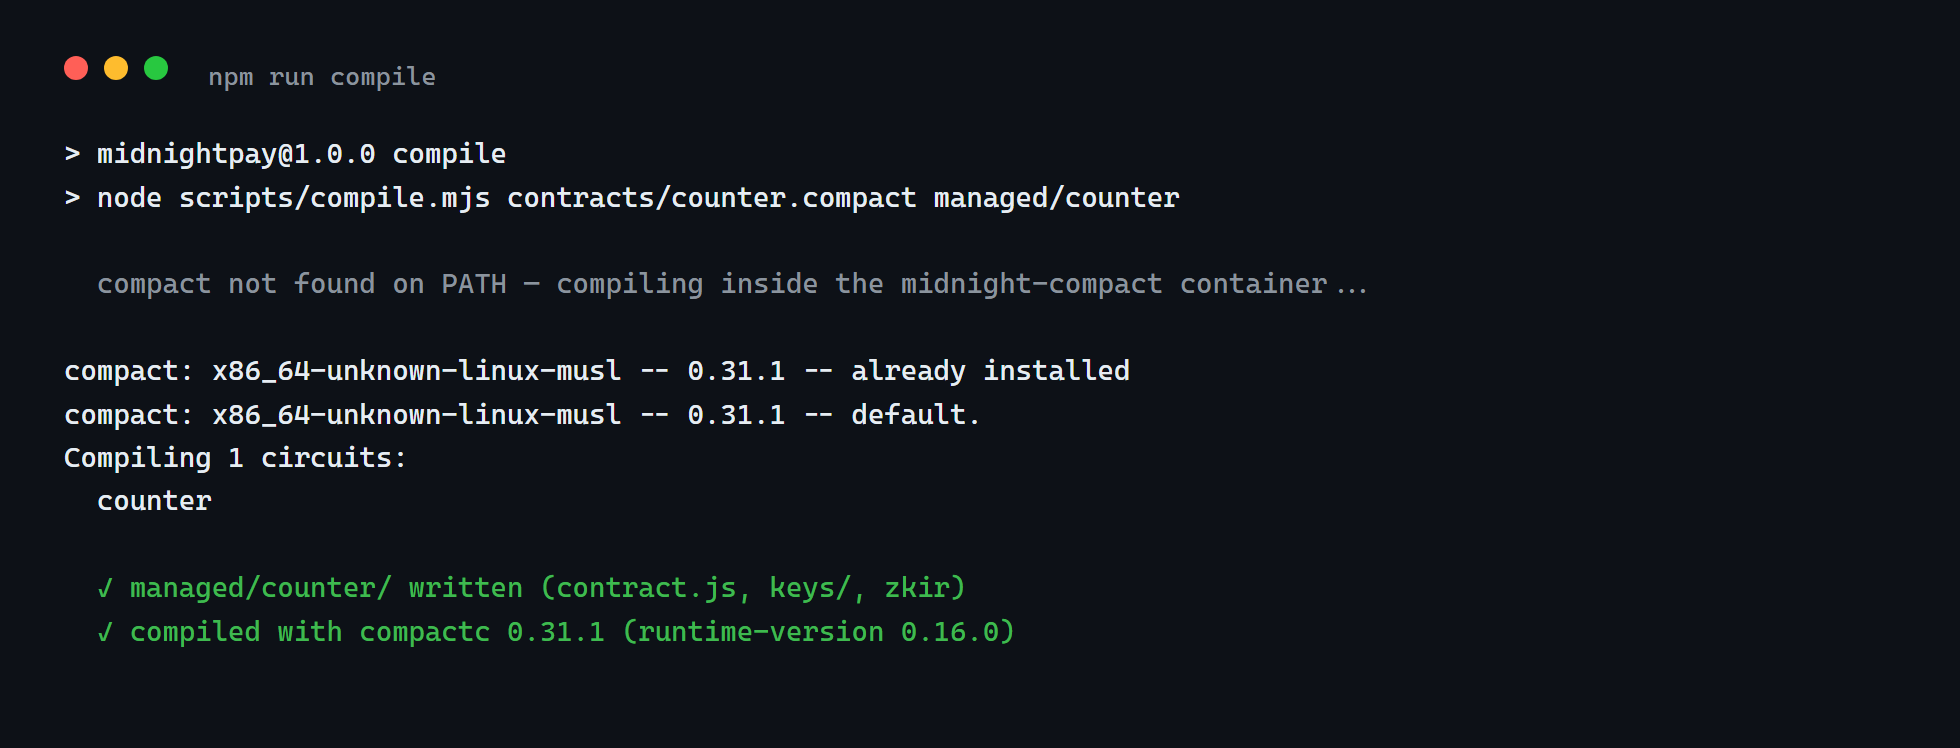
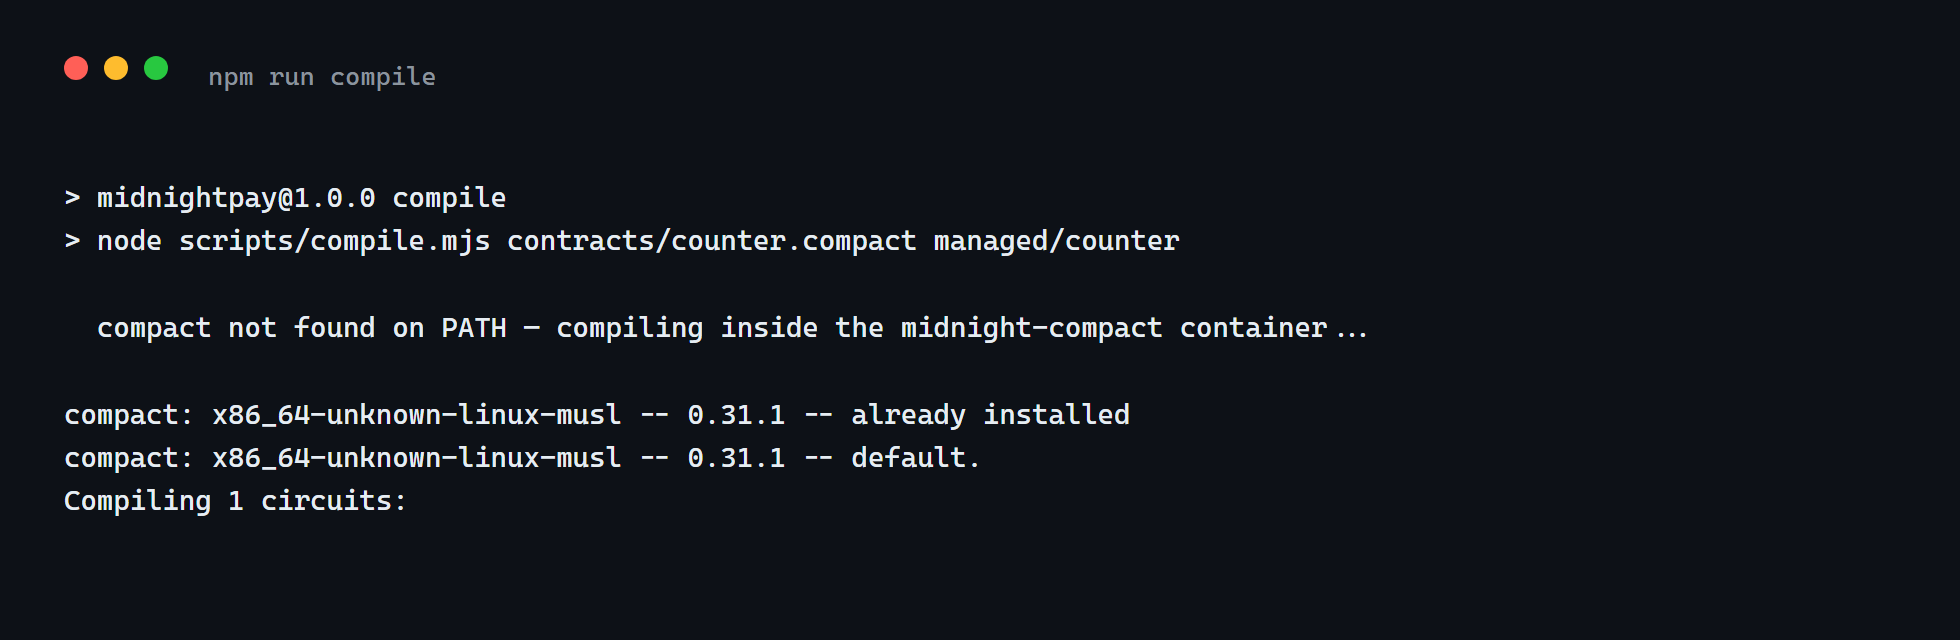
fix: capture screenshots from real command output instead of hardcoded text

diff --git a/README.md b/README.md
@@ -200,5 +200,8 @@ payment settlement where the payer, not the chain, decides what the world gets t
 
 ![npm run verify](docs/verify.png)
 
-> Regenerate with `node scripts/screenshots.mjs` (uses headless Chrome) so the
-> images always match the current output.
+> These images are captured from **real command output**, not hand-written:
+> `node scripts/screenshots.mjs` runs `npm run compile`, `npm test` and
+> `npm run verify`, captures each command's actual stdout/stderr (refusing to
+> write an image if a command fails), and photographs that with headless
+> Chrome. Re-run it after any change so the images match the repo.
